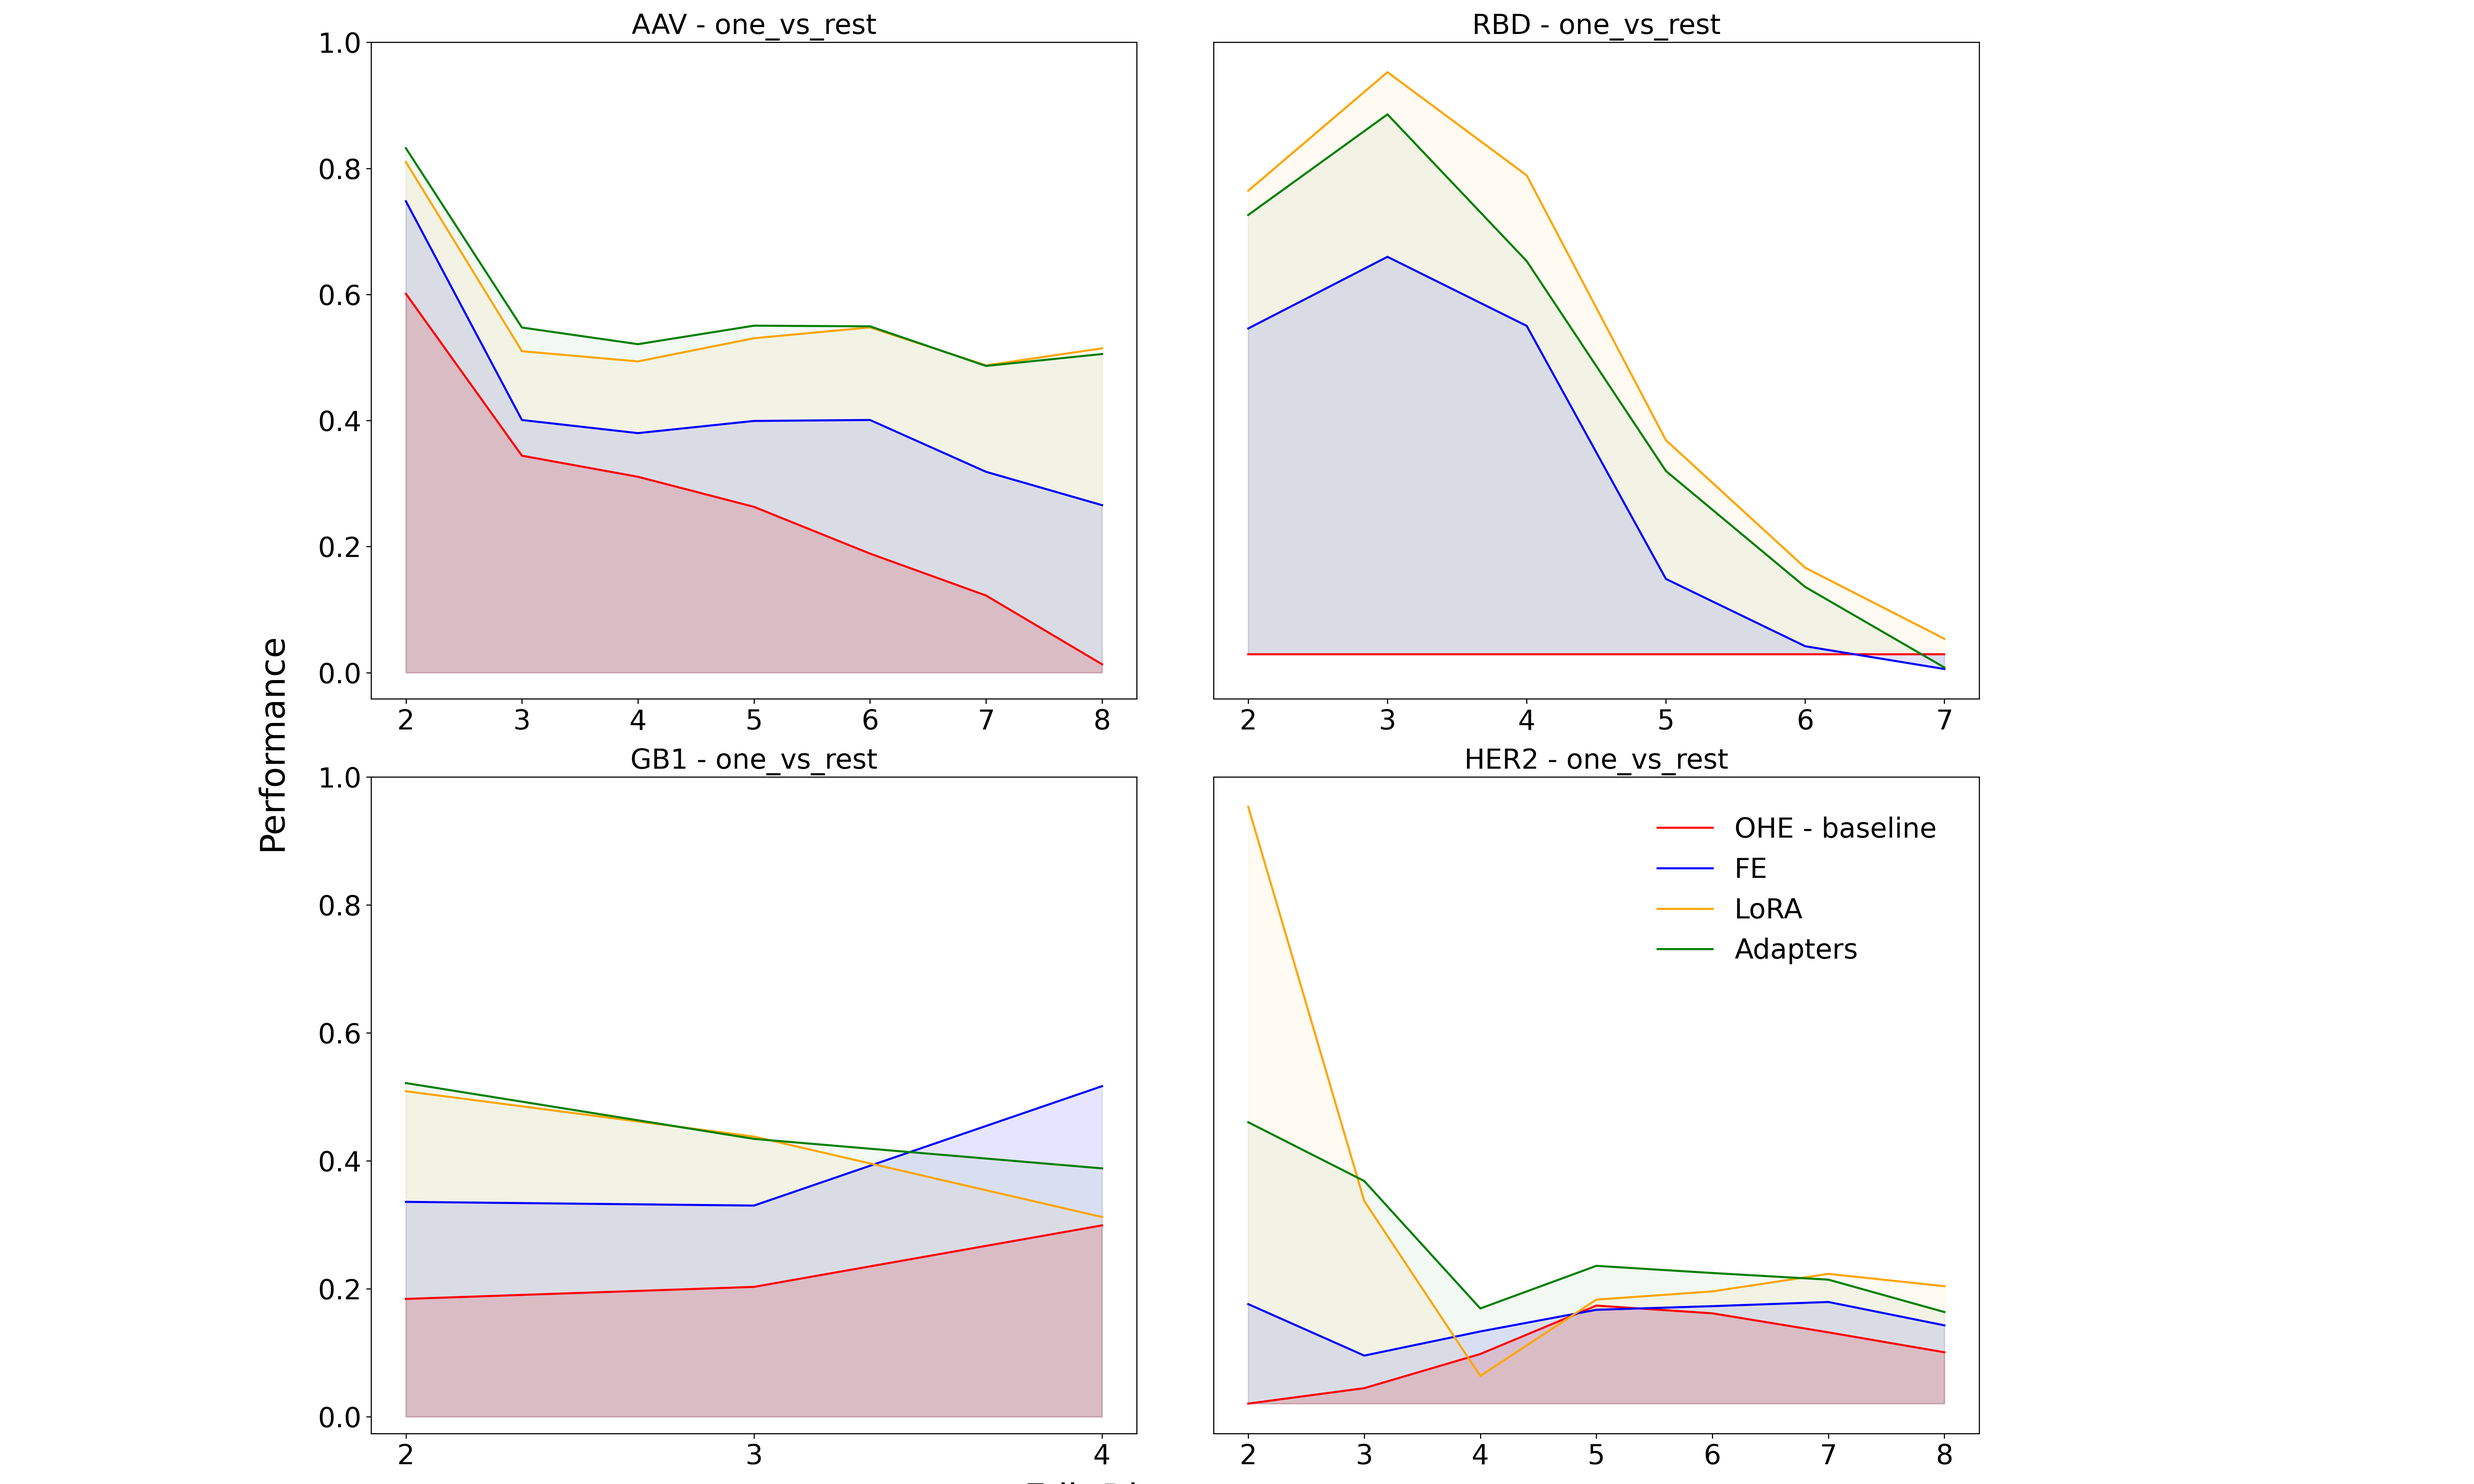
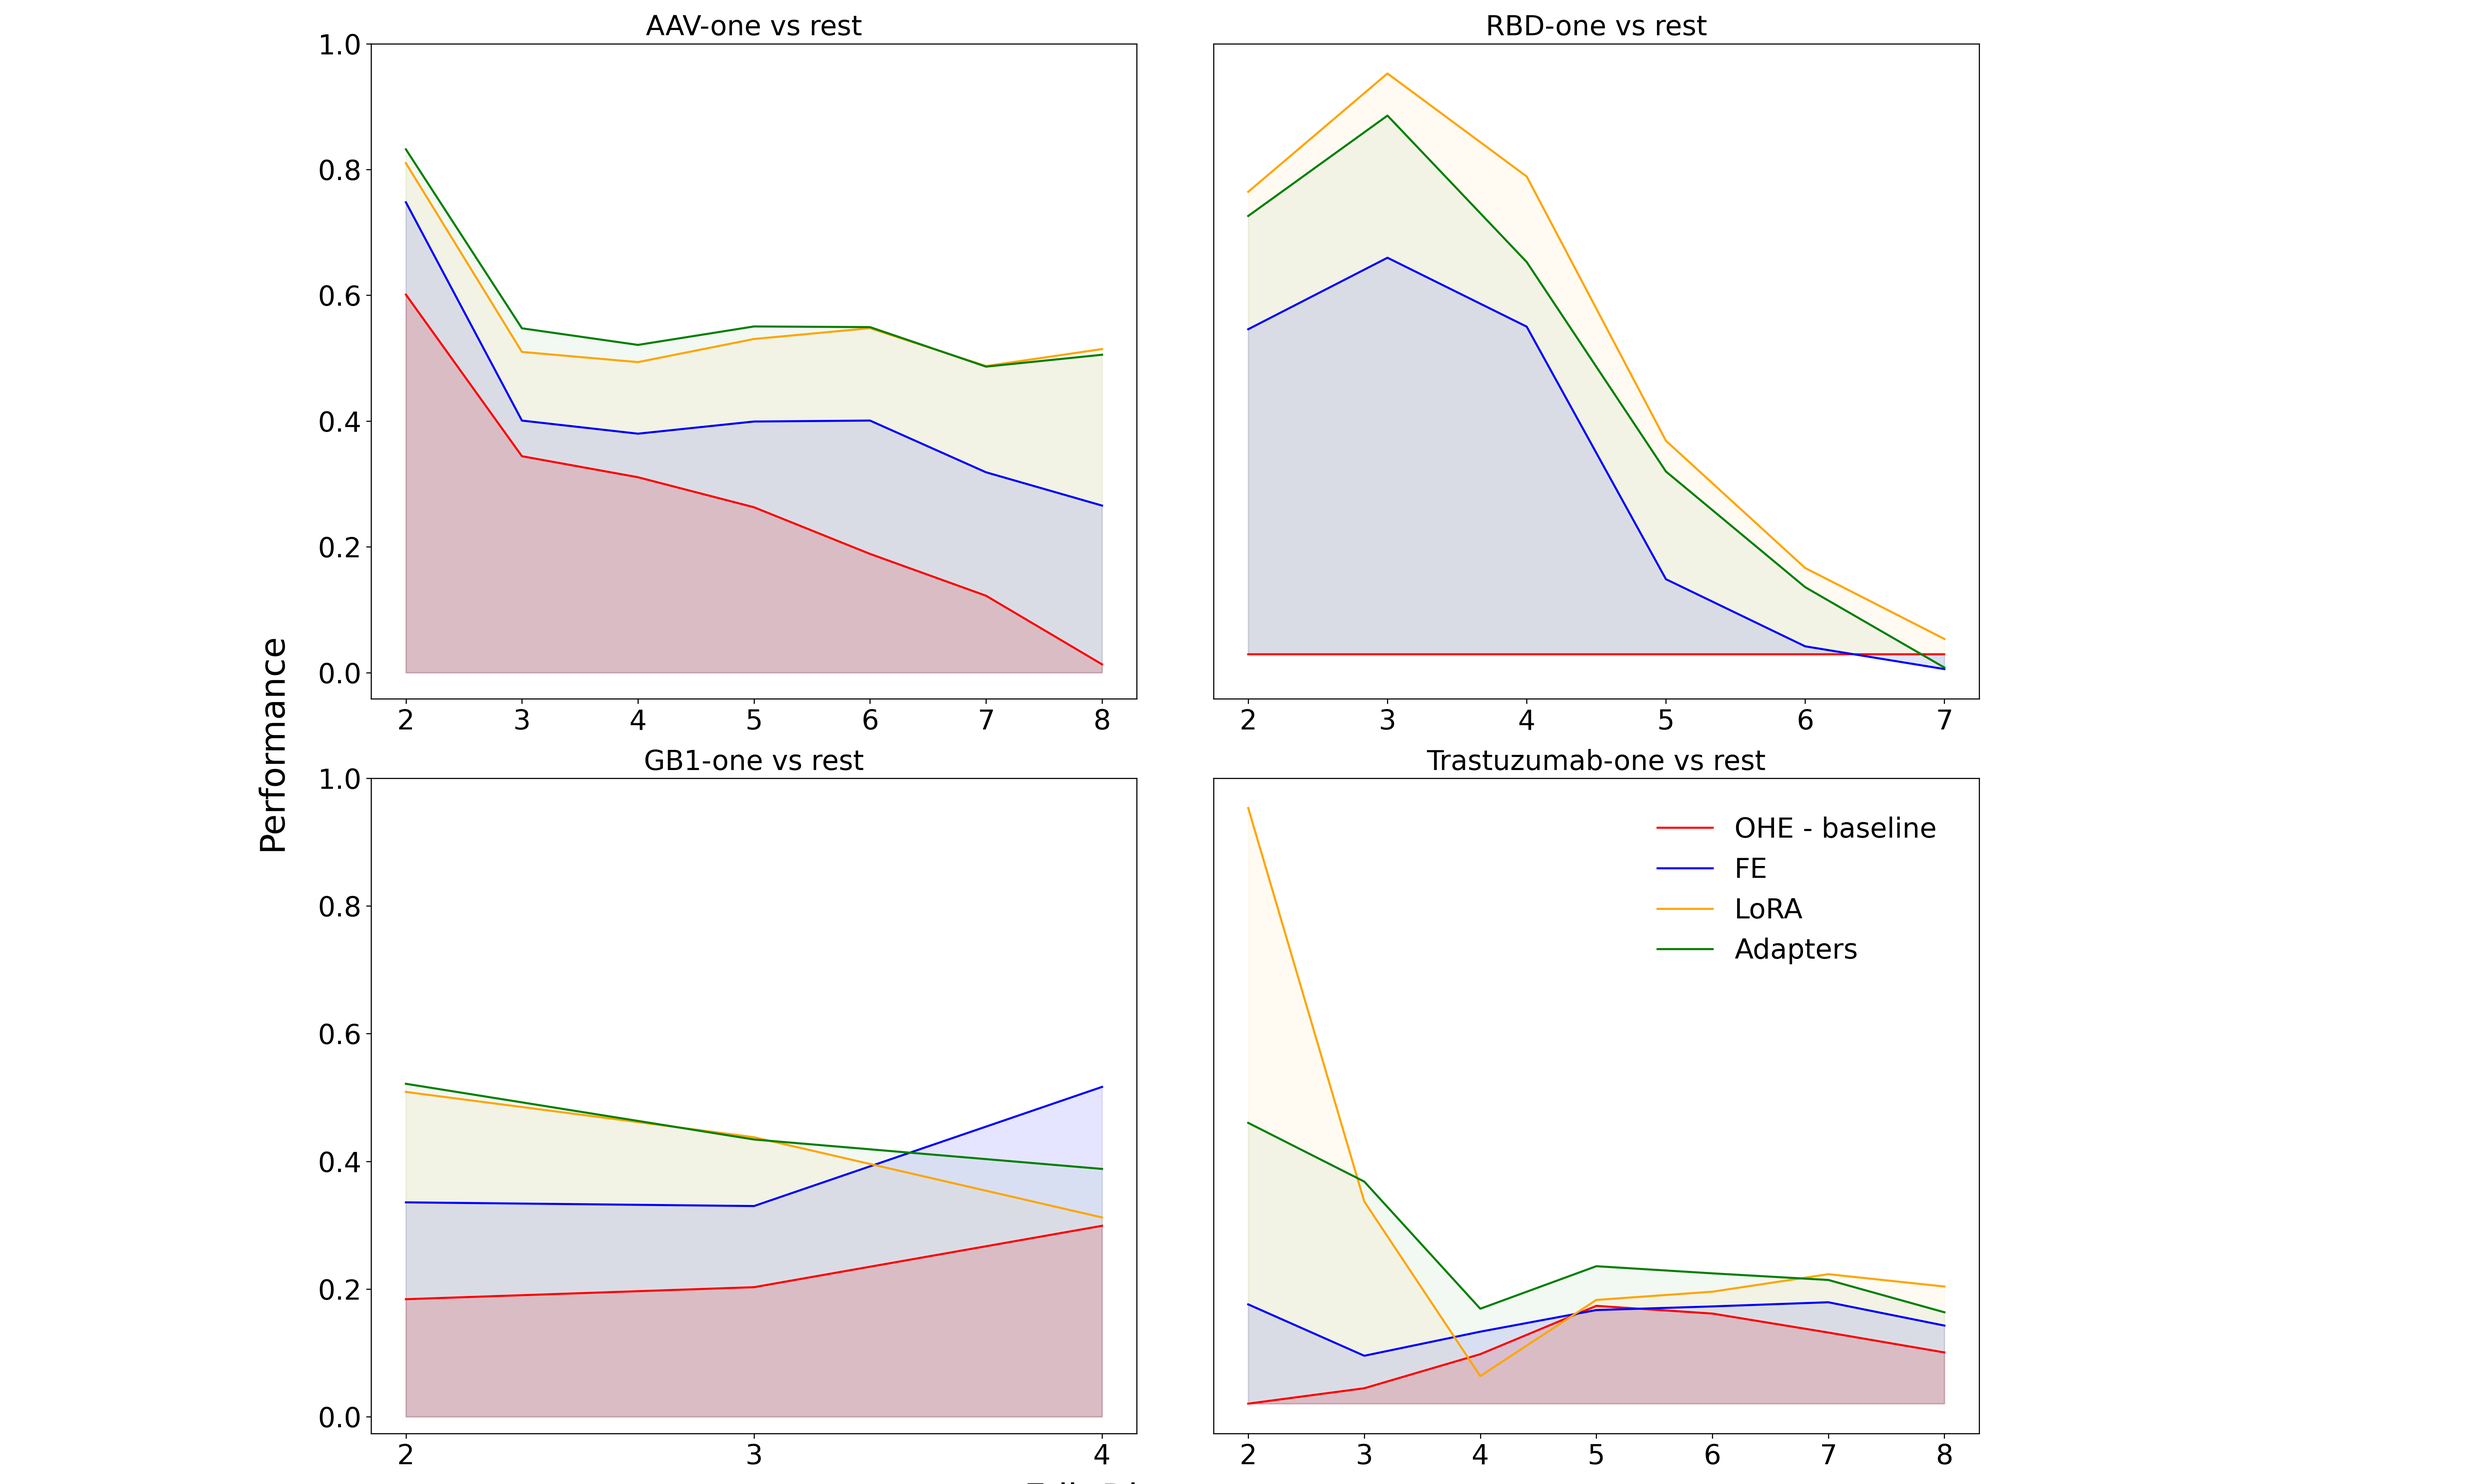
modified plots

diff --git a/results_visualization/layer_analysis_plot.py b/results_visualization/layer_analysis_plot.py
@@ -61,9 +61,9 @@ baselines = [
 
 
 dict_names = [
-    'AAV - sampled',
-    'GB1 - three_vs_rest',
-    'Meltome - mixed'
+    'AAV-sampled',
+    'GB1-three vs rest',
+    'Meltome-mixed'
 ]
 
 from matplotlib.lines import Line2D
@@ -90,6 +90,26 @@ fig, axes = plt.subplots(nrows=3, ncols=len(dict_names), figsize=(50, 30), share
 handles_dict = {}
 
 # Plot Feature Extraction (Row 1)
+# Function to filter out extrapolation and reduce marker size when y == 0.2
+def process_plot(numeric_x, numeric_y, ax, model, colors, markers):
+    # Split the data into two parts: one with y != 0.2 and the other with y == 0.2
+    small_marker_x = [x for x, y in zip(numeric_x, numeric_y) if y == 0.2]
+    small_marker_y = [y for y in numeric_y if y == 0.2]
+    
+    full_marker_x = [x for x, y in zip(numeric_x, numeric_y) if y != 0.2]
+    full_marker_y = [y for y in numeric_y if y != 0.2]
+    
+    # Plot points with y != 0.2 using normal line and markers
+    if full_marker_x and full_marker_y:
+        sns.lineplot(x=full_marker_x, y=full_marker_y, label=model, color=colors[model], 
+                     marker=markers[model], markersize=20, ax=ax, linewidth=4)
+    
+    # Plot points where y == 0.2 using very small markers and no line
+    if small_marker_x and small_marker_y:
+        sns.scatterplot(x=small_marker_x, y=small_marker_y, label=model, color=colors[model], 
+                        marker=markers[model], s=10, ax=ax)  # 's' controls marker size in scatterplot
+
+# Plot Feature Extraction (Row 1)
 for idx, (data, ax, baseline, name) in enumerate(zip(datasets_fe, axes[0, :], baselines, dict_names)):
     y_values_matrix = []
     numeric_x = convert_to_numeric(list(index_layers.values()))
@@ -97,9 +117,8 @@ for idx, (data, ax, baseline, name) in enumerate(zip(datasets_fe, axes[0, :], ba
     for model, values in data.items():
         numeric_y = convert_to_numeric(values)
 
-        # Plot the value lines for each protein language model with increased line thickness
-        line = sns.lineplot(x=numeric_x, y=numeric_y, label=model, color=colors[model], marker=markers[model], 
-                            markersize=20, ax=ax, linewidth=4)
+        # Process plotting with reduced marker size and no extrapolation for y == 0.2
+        process_plot(numeric_x, numeric_y, ax, model, colors, markers)
 
         # Create custom handle for this line if not already added
         if model not in handles_dict:
@@ -113,15 +132,10 @@ for idx, (data, ax, baseline, name) in enumerate(zip(datasets_fe, axes[0, :], ba
     min_y_values = np.min(y_values_matrix, axis=0)
     max_y_values = np.max(y_values_matrix, axis=0)
 
-    # Shade the area between the min and max values in light gray
-   # ax.fill_between(numeric_x, min_y_values, max_y_values, color='lightgray', alpha=0.3)
-
     # Plot baseline as a dashed line with thicker line
-    baseline_handle = Line2D([0], [0], color='red', linestyle='--', linewidth=4,  label='OHE - baseline')
-    ax.axhline(y=baseline, color='red', linestyle='--',  label='OHE - baseline', linewidth=4)
+    baseline_handle = Line2D([0], [0], color='red', linestyle='--', linewidth=4, label='OHE - baseline')
+    ax.axhline(y=baseline, color='red', linestyle='--', label='OHE - baseline', linewidth=4)
     
-    # Add baseline handle to dictionary
-
     # Set y-axis limits and customize ticks
     ax.set_ylim(0.3, 1)  # Adjust y-axis limits
     ax.set_yticks(get_y_ticks(ax))  # Set custom y-ticks
@@ -136,6 +150,7 @@ for idx, (data, ax, baseline, name) in enumerate(zip(datasets_fe, axes[0, :], ba
     # Remove individual legends from subplots
     ax.legend_.remove()
 
+
 # Plot LoRA (Row 2)
 for idx, (data, ax, baseline, name) in enumerate(zip(datasets_lora, axes[1, :], baselines, dict_names)):
     y_values_matrix = []
@@ -144,9 +159,8 @@ for idx, (data, ax, baseline, name) in enumerate(zip(datasets_lora, axes[1, :], 
     for model, values in data.items():
         numeric_y = convert_to_numeric(values)
 
-        # Plot the value lines for each protein language model with increased line thickness
-        line = sns.lineplot(x=numeric_x, y=numeric_y, label=model, color=colors[model], marker=markers[model], 
-                            markersize=20, ax=ax, linewidth=4)
+        # Process plotting with reduced marker size and no extrapolation for y == 0.2
+        process_plot(numeric_x, numeric_y, ax, model, colors, markers)
 
         # Create custom handle for this line if not already added
         if model not in handles_dict:
@@ -159,21 +173,16 @@ for idx, (data, ax, baseline, name) in enumerate(zip(datasets_lora, axes[1, :], 
     y_values_matrix = np.array(y_values_matrix)
     min_y_values = np.min(y_values_matrix, axis=0)
     max_y_values = np.max(y_values_matrix, axis=0)
-    
-    # Shade the area between the min and max values in light gray
-    #ax.fill_between(numeric_x, min_y_values, max_y_values, color='lightgray', alpha=0.3)
 
     # Plot baseline as a dashed line with thicker line
     baseline_handle = Line2D([0], [0], color='red', linestyle='--', linewidth=4, label='OHE - baseline')
     ax.axhline(y=baseline, color='red', linestyle='--', label='OHE - baseline', linewidth=4)
     
-    # Add baseline handle to dictionary
-    handles_dict['OHE - baseline'] = baseline_handle
-
     # Set y-axis limits and customize ticks
     ax.set_ylim(0.3, 1)  # Adjust y-axis limits
     ax.set_yticks(get_y_ticks(ax))  # Set custom y-ticks
     
+    ax.set_title(f'{name}', fontsize=35)
     ax.set_xlabel('')
     ax.set_xticklabels([])
     ax.tick_params(axis='x', which='both', labelsize=35)
@@ -183,7 +192,6 @@ for idx, (data, ax, baseline, name) in enumerate(zip(datasets_lora, axes[1, :], 
     # Remove individual legends from subplots
     ax.legend_.remove()
 
-# Plot Adapters (Row 3)
 for idx, (data, ax, baseline, name) in enumerate(zip(datasets_adapters, axes[2, :], baselines, dict_names)):
     y_values_matrix = []
     numeric_x = convert_to_numeric(list(index_layers.values()))
@@ -191,9 +199,8 @@ for idx, (data, ax, baseline, name) in enumerate(zip(datasets_adapters, axes[2, 
     for model, values in data.items():
         numeric_y = convert_to_numeric(values)
 
-        # Plot the value lines for each protein language model with increased line thickness
-        line = sns.lineplot(x=numeric_x, y=numeric_y, label=model, color=colors[model], marker=markers[model], 
-                            markersize=20, ax=ax, linewidth=4)
+        # Process plotting with reduced marker size and no extrapolation for y == 0.2
+        process_plot(numeric_x, numeric_y, ax, model, colors, markers)
 
         # Create custom handle for this line if not already added
         if model not in handles_dict:
@@ -206,23 +213,24 @@ for idx, (data, ax, baseline, name) in enumerate(zip(datasets_adapters, axes[2, 
     y_values_matrix = np.array(y_values_matrix)
     min_y_values = np.min(y_values_matrix, axis=0)
     max_y_values = np.max(y_values_matrix, axis=0)
-    
-    # Shade the area between the min and max values in light gray
-    #ax.fill_between(numeric_x, min_y_values, max_y_values, color='lightgray', alpha=0.3)
 
     # Plot baseline as a dashed line with thicker line
-    baseline_handle = Line2D([0], [0], color='red', linestyle='--', linewidth=4,  label='OHE - baseline')
-    ax.axhline(y=baseline, color='red', linestyle='--',  label='OHE - baseline', linewidth=4)
-    
-    # Add baseline handle to dictionary
+    baseline_handle = Line2D([0], [0], color='red', linestyle='--', linewidth=4, label='OHE - baseline')
+    ax.axhline(y=baseline, color='red', linestyle='--', label='OHE - baseline', linewidth=4)
+
+    # Add baseline handle to the dictionary
+    handles_dict['OHE - baseline'] = baseline_handle  # Add this line
 
     # Set y-axis limits and customize ticks
     ax.set_ylim(0.3, 1)  # Adjust y-axis limits
     ax.set_yticks(get_y_ticks(ax))  # Set custom y-ticks
-
+    
+    ax.set_title(f'{name}', fontsize=35)
+    ax.set_xlabel('')
+    ax.set_xticks([0, 25, 50, 75, 100])  # Set x-axis ticks
+    ax.set_xticklabels(['0', '25', '50', '75', '100'], fontsize=30)  # Set x-axis tick labels
     ax.tick_params(axis='x', which='both', labelsize=35)
     ax.tick_params(axis='y', which='both', labelsize=35)
-    ax.set_xlabel('')
     ax.set_ylabel('Adapters - Performance', fontsize=35)
     
     # Remove individual legends from subplots
@@ -237,5 +245,6 @@ fig.legend(handles=list(handles_dict.values()), labels=list(handles_dict.keys())
 
 plt.tight_layout()
 plt.savefig('results_visualization/all_layer_analysis_with_lightgray_shaded_area_single_legend.png', bbox_inches='tight', dpi=300)
+
 
 

diff --git a/results_visualization/tl_overview_plot.py b/results_visualization/tl_overview_plot.py
@@ -39,11 +39,11 @@ baselines = [
 
 # Names for each dataset
 dict_names = [
-    'AAV - sampled',
-    'AAV - one_vs_rest',
-    'GB1 - three_vs_rest',
-    'GB1 - one_vs_rest',
-    'Meltome - mixed'
+    'AAV-sampled',
+    'AAV-one vs rest',
+    'GB1-three vs rest',
+    'GB1-one vs rest',
+    'Meltome-mixed'
 ]
 
 fig = plt.figure(figsize=(30, 15))
@@ -87,12 +87,7 @@ num_ticks = len(dict_names)
 data_fe = []
 data_ft = []
 
-# Create a single subplot spanning the entire second row
-ax_joint = fig.add_subplot(gs[1, :])
 
-num_ticks = len(dict_names)
-data_fe = []
-data_ft = []
 
 # Prepare the data for boxplots
 for dataset, baseline in zip(datasets, baselines):
@@ -149,27 +144,6 @@ ax_joint.set_title("                  ", fontsize=55)  # Remove title from the s
 plt.tight_layout()
 
 # Print statistics for each task below the x-axis
-def print_boxplot_stats(bp, positions, task_names):
-    for i, pos in enumerate(positions):
-        q1 = bp['whiskers'][i*2].get_ydata()[1]
-        q3 = bp['whiskers'][i*2+1].get_ydata()[1]
-        median = bp['medians'][i].get_ydata()[1]
-        min_val = bp['caps'][i*2].get_ydata()[1]
-        max_val = bp['caps'][i*2+1].get_ydata()[1]
-        
-        # Get the outliers
-        outliers = bp['fliers'][i].get_ydata()
-        
-        # Add the outliers to the printed stats
-        ax_joint.text(pos, -75, f"Q1: {q1:.2f}\nQ3: {q3:.2f}\nMin: {min_val:.2f}\nMax: {max_val:.2f}\nMed: {median:.2f}\nOutliers: {list(outliers)}", 
-                     ha='center', va='top', fontsize=12, color='black')
-        
-        # Print the stats including outliers
-        print(f'//////// {task_names[i]} ////////')
-        print(f"Q1: {q1:.2f}\nQ3: {q3:.2f}\nMin: {min_val:.2f}\nMax: {max_val:.2f}\nMed: {median:.2f}\nOutliers: {list(outliers)}")
-# Print stats for FE and FT boxplots
-print_boxplot_stats(bp_fe, positions_fe, dict_names)
-print_boxplot_stats(bp_ft, positions_ft, dict_names)
 
 # Save the figure
 plt.savefig('results_visualization/til_overview_with_joint_boxplots_and_legend_spaced.png', bbox_inches='tight', dpi=300)

diff --git a/results_visualization/TaskDistributionDifference.py b/results_visualization/TaskDistributionDifference.py
@@ -75,3 +75,13 @@ average_kl_divergence = compare_kl_divergence_avg(set2, set3)
 print(f"Average KL Divergence: {average_kl_divergence:.4f}")
 
 
+import pandas as pd
+
+# Creating a dummy pandas DataFrame to represent the approximated data points
+data = {
+    'Concentration (µM)': [0.002, 0.03, 0.1, 1, 3, 10, 30, 100],  # X values (approximate concentrations)
+    'Response Units': [1, 3, 5, 9, 13, 20, 25, 30]  # Y values (approximate responses)
+}
+
+df = pd.DataFrame(data)
+df

diff --git a/results_visualization/edit_distance_visualization.py b/results_visualization/edit_distance_visualization.py
@@ -66,7 +66,7 @@ legend_labels = {}
 
 # Plot each dictionary
 
-titles = [  'AAV - one_vs_rest', 'RBD - one_vs_rest', 'GB1 - one_vs_rest', 'HER2 - one_vs_rest']
+titles = [  'AAV-one vs rest', 'RBD-one vs rest', 'GB1-one vs rest', 'Trastuzumab-one vs rest']
 for i, (ax, data_dict, title) in enumerate(zip(axs.flatten(), data_dicts, titles)):
     # Show y-ticks only in the left column (i % 2 == 0)
     plot_dict(ax, data_dict, title, legend_labels, show_yticks=(i % 2 == 0))
